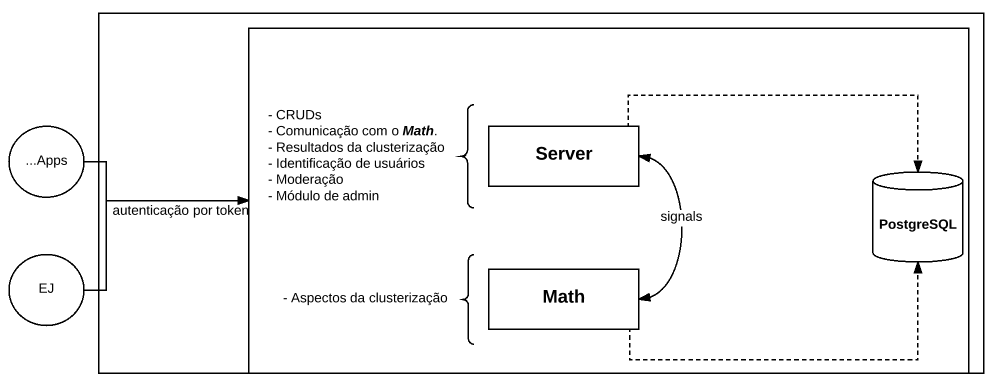
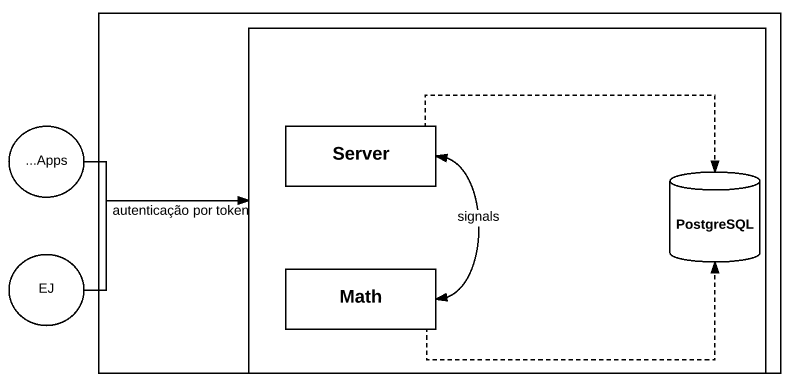
refinando proposta

diff --git a/editaveis/proposta.tex b/editaveis/proposta.tex
@@ -1,68 +1,94 @@
-\chapter{Planejamento}
+\chapter{Proposta do trabalho}
+
 Conforme descrito no Capítulo \ref{cap:introducao}, este trabalho será constituído de cinco etapas.
 Em um primeiro momento, a etapa de diagnóstico foi realizada e os sistemas relacionados e suas funcionalidades em comum 
-foram apresentadas no Capítulo \ref{cap:sistemas_relacionados}. Em seguida, o objetivos do trabalho foram definidos. 
+foram apresentadas no Capítulo \ref{cap:sistemas_relacionados}. Neste capítulo é apresentado o resultado da segunda etapa
+que é a descrição da proposta do trabalho de acordo com os objetivos estabelecidos.
 
-Para execução do trabalho foi estabelecido um cronograma que pode ser visto na Figura \ref{fig:cronograma}.
-Foram contempladas as atividades iniciais realizadas e o planejamento para implementação da solução.
-O desenvolvimento da API será por meio de um processo iterativo e incremental. 
-
-\begin{figure}[h!]
-\centering
-\includegraphics[scale=0.6]{figuras/cronograma.png}
-\caption{Cronograma de execução}
-\label{fig:cronograma}
-\end{figure}
-
-\section{Escopo}
-Para alcançar os objetivos propostos foi feita uma avaliação do escopo da plataforma Empurrando Juntos, que é foco de contribuição deste trabalho.
-Nessa avaliação foram mapeadas as entidades principais, seus atributos e os relacionamentos entre elas. 
-Esse mapeamento pode ser visto na Figura \ref{fig:entidades}.
+Para a plataforma Empurrando Juntos é prevista uma arquitetura cliente-servidor a fim de possibilitar a criação de aplicações e
+aplicativos. A estrutura que contempla o lado servidor é denominada Pentano e pode ser visualizada na Figura \ref{fig:pentano}. 
+O Pentano é constituído por dois módulos: o \textit{server}, 
+que é o módulo da API a ser criada neste trabalho e o \textit{Math} que é o módulo responsável pela clusterização. 
 
 \begin{figure}[h!]
 \centering
-\includegraphics[scale=0.5]{figuras/entidades.png}
-\caption{Entidades da API}
-\label{fig:entidades}
-\end{figure}
-
-O funcionamento da plataforma basicamente contempla as três entidades apresentadas: Usuário, Conversa, Comentário. Um usuário cria uma conversa, 
-a qual pode possuir inúmeros comentários realizados por diversas pessoas. 
-Em cada comentário é possível realizar um voto. O conceito de voto pode ser definido
-para cada contexto de uso, um exemplo seria concordar ou discordar de um comentário. Cada pessoa que cria um comentário ou vota em um comentário
-de uma conversa torna-se participante. 
-
-A API terá como escopo o provimento de manutenção dessas entidades e seus relacionamentos (Participa e Vota, principalmente)
-por meio de serviços REST.
-
-
-\section{Estrutura}
-
-A API a ser criada faz parte de uma estrutura que será denominada como Pentano. O Pentano é constituído por dois módulos: o \textit{server}, 
-que é o módulo da API e o \textit{Math} que é o módulo responsável pela clusterização. 
-Essa estrutura pode ser melhor visualizada na Figura \ref{fig:pentano}.
-
-\begin{figure}[h!]
-\centering
-\includegraphics[scale=0.5]{figuras/esquema_pentano.png}
+\includegraphics[scale=0.8]{figuras/esquema_pentano.png}
 \caption{Estrutura do Pentano}
 \label{fig:pentano}
 \end{figure}
 
+\section{Requisitos da solução}
 
-Para implementação do módulo \textit{Math} foi utilizada a linguagem Python. A API a ser implementada também utilizará a linguagem Python
-juntamente com os \textit{frameworks} Django e Django Rest Framework.
+Uma avaliação do escopo da plataforma Empurrando Juntos permitiu o levantamento de características do sistema e por consequência
+os requisitos associados, o que foi resumido na Tabela \ref{tab:requisitos}.
 
-\section{Resultados Esperados}
+\begin{table}[h!]
+\centering
+\caption{Requisitos da aplicação}
+\label{tab:requisitos}
+\begin{tabular}{@{}cl@{}}
+\toprule
+\textbf{Característica}                      & \multicolumn{1}{c}{\textbf{Requisito}}                                                                                                \\ \midrule
+\multirow{4}{*}{Gerenciamento de Usuário}    & O sistema deve permitir o cadastro de usuários                                                                                        \\
+                                             & O sistema deve permitir a alteração de usuários                                                                                       \\
+                                             & O sistema deve permitir a exclusão de usuários                                                                                         \\
+                                             & O sistema deve permitir login pelo facebook                                                                                           \\\midrule
+\multirow{3}{*}{Gerenciamento de Conversa}   & O sistema deve permitir o cadastro de conversas                                                                                       \\
+                                             & O sistema deve permitir a alteração de conversas                                                                                      \\
+                                             & O sistema deve permitir a exclusão de conversas                                                                                       \\ \midrule
+\multirow{4}{*}{Gerenciamento de Comentário} & O sistema deve permitir o cadastro de comentários em conversas                                                                        \\
+                                             & O sistema deve permitir a alteração de comentários                                                                                    \\
+                                             & O sistema deve permitir a exclusão de comentários                                                                                     \\ 
+                                             & O sistema deve permitir que o usuário vote em comentários                                                                             \\ \midrule
+Agrupamento de usuários                      & \begin{tabular}[c]{@{}l@{}}O sistema deve permitir a visualização dos usuários agrupados \\ de acordo com os votos dados\end{tabular} \\ \bottomrule
+\end{tabular}
+\end{table}
 
-No final do trabalho é esperado uma API Rest que seja capaz de fornecer um serviço de participação com conversas, comentários
-e votos que agrupe pessoas de acordo com os votos.
 
-Com esse serviço, espera-se contribuir com a plataforma Empurrando Juntos através da implementação da parte servidor da 
-arquitetura definida.
+Para contemplar os requisitos elicitados foram mapeadas as entidades principais, alguns de seus atributos e os relacionamentos entre elas. 
+Esse mapeamento pode ser visto na Figura \ref{fig:entidades}.
 
-Dentro do contexto social, o objetivo é que a API possa contribuir no apoio à mulheres vítimas de violência, através
-da promoção de discussões mais efetivas e a criação de uma rede de apoio entre mulheres que passam ou passaram por essa situação.
+\begin{figure}[h!]
+\centering
+\includegraphics[scale=0.6]{figuras/entidades.png}
+\caption{Entidades da API}
+\label{fig:entidades}
+\end{figure}
+
+Os requisitos supracitados e as entidades mapeadas serão providas para a plataforma por meio dos serviços REST a serem implementados.
+A tecnologia escolhida para implementação da API foi a linguagem Python juntamente com os \textit{frameworks} Django e Django Rest Framework.
+
+Considerando a estrutura proposta pelo Empurrando Juntos e a tecnologia escolhida foram identificados os seguintes requisitos não funcionais:
+
+\begin{itemize}
+ \item Autenticação por token;
+ \item Definição dinâmica da semântica dos votos;
+ \item Integração com o módulo \textit{Math};
+ \item Utilização do PEP8.
+\end{itemize}
+
+
+% Para execução do trabalho foi estabelecido um cronograma que pode ser visto na Figura \ref{fig:cronograma}.
+% Foram contempladas as atividades iniciais realizadas e o planejamento para implementação da solução.
+% O desenvolvimento da API será por meio de um processo iterativo e incremental. 
+
+% \begin{figure}[h!]
+% \centering
+% \includegraphics[scale=0.6]{figuras/cronograma.png}
+% \caption{Cronograma de execução}
+% \label{fig:cronograma}
+% \end{figure}
+
+% \section{Resultados Esperados}
+
+% No final do trabalho é esperado uma API Rest que seja capaz de fornecer um serviço de participação com conversas, comentários
+% e votos que agrupe pessoas de acordo com os votos.
+
+% Com esse serviço, espera-se contribuir com a plataforma Empurrando Juntos através da implementação da parte servidor da 
+% arquitetura definida.
+
+% Dentro do contexto social, o objetivo é que a API possa contribuir no apoio à mulheres vítimas de violência, através
+% da promoção de discussões mais efetivas e a criação de uma rede de apoio entre mulheres que passam ou passaram por essa situação.
 
 
 

diff --git a/editaveis/clusterizacao.tex b/editaveis/clusterizacao.tex
@@ -171,8 +171,8 @@ Na Figura \ref{fig:iteracoes_kmeans} é apresentada um exemplo das iterações u
 \label{fig:iteracoes_kmeans}
 \end{figure}
 
-No Empurrando Juntos a entrada para os \textit{clusters} são os votos. Todavia, cada voto está associado à um participante e um 
-comentário. Essa combinação forma uma entrada tridimensional para cada comentário.
+No Empurrando Juntos a entrada para os \textit{clusters} é a combinação entre participante,  
+comentário e o voto. Essa combinação gera uma entrada de N dimensões para N comentários.
 Frequentemente antes de medir a similaridade entre os objetos é necessário
 reduzir a dimensionalidade, isso acontece, pois para espaços de alta dimensão as distâncias euclidianas
 tendem a inflar e reduzir a dimensionalidade pode aliviar este problema e reduzir o tempo de cálculo.

diff --git a/tcc.tex b/tcc.tex
@@ -31,7 +31,8 @@
 \input{editaveis/clusterizacao}
 \input{editaveis/sistemas_relacionados}
 \input{editaveis/api}
-%\input{editaveis/proposta}
+
+\input{editaveis/proposta}
 %\input{editaveis/consideracoes_finais}
 
 \bookmarksetup{startatroot} 

diff --git a/fixos/pacotes.tex b/fixos/pacotes.tex
@@ -14,6 +14,8 @@
 \usepackage{bold-extra}
 \usepackage{eso-pic}
 \usepackage{listings}
+\usepackage{multirow}
+\usepackage{booktabs}
 
 \lstset{
   basicstyle=\ttfamily\footnotesize,
